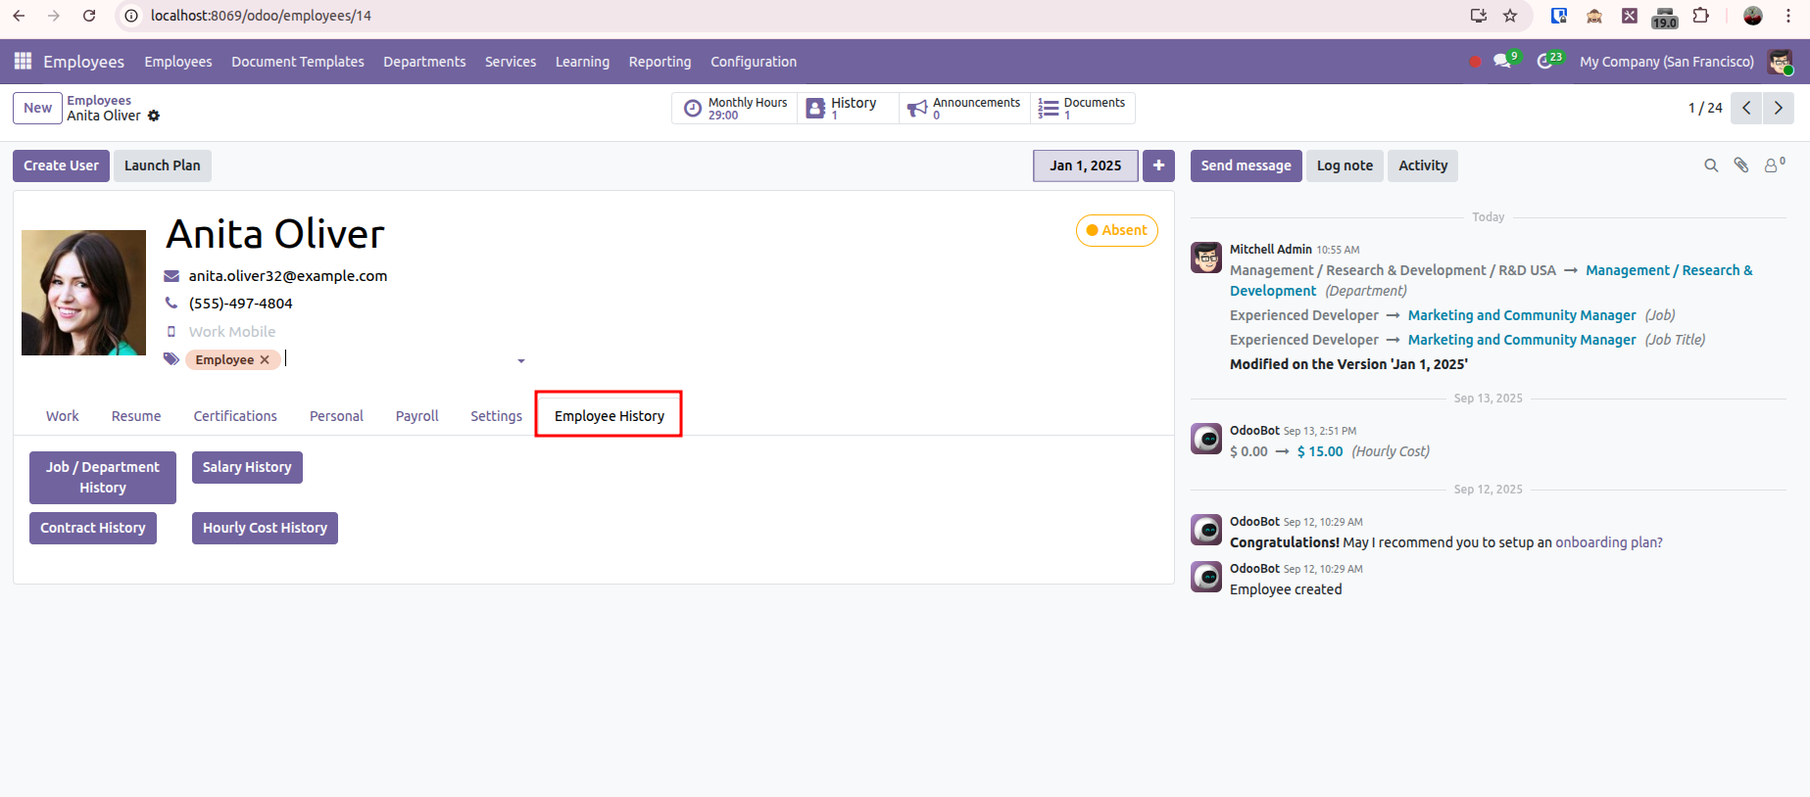
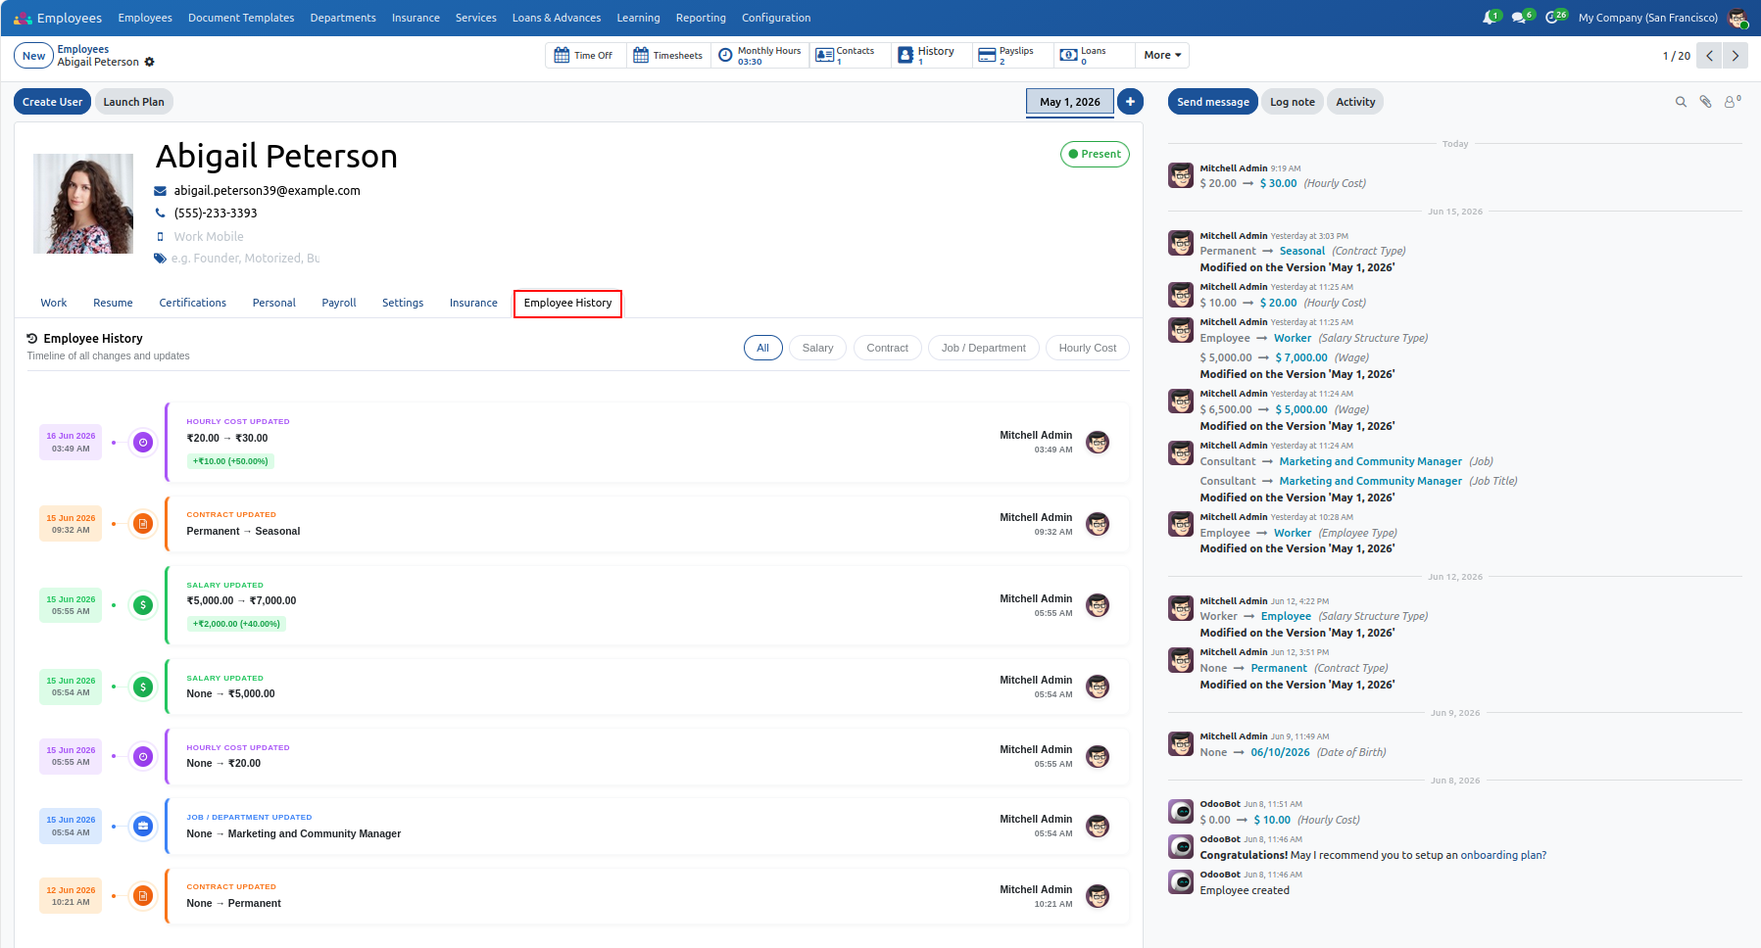
[UPDT] view styling history_employee

diff --git a/static/description/index.html b/static/description/index.html
@@ -205,11 +205,11 @@
                                     <img src="./img/feature-icon.svg" class="img-responsive" height="22px" width="22px">
                                 </div>
                                 <h5 class="m-0" style="color:#000 !important; font-weight:bold">
-                                    Job Position / Department History
+                                    Unified Timeline View
                                 </h5>
                                 <p class="m-0"
                                    style="font-size:0.9rem; color:var(--text-color-light); font-size: 16px; font-weight: 400;">
-                                    Track an employee's job position and department changes over time</p>
+                                    Track all employee changes in a single, unified timeline widget.</p>
                             </div>
                         </div>
                         <div class="col-lg-4">
@@ -221,11 +221,11 @@
                                     <img src="./img/feature-icon.svg" class="img-responsive" height="22px" width="22px">
                                 </div>
                                 <h5 class="m-0" style="color:#000 !important; font-weight:bold">
-                                    Salary History
+                                    Interactive Category Filters
                                 </h5>
                                 <p class="m-0"
                                    style="font-size:0.9rem; color:var(--text-color-light); font-size: 16px; font-weight: 400;">
-                                    Track an employee's salary changes over time. </p>
+                                    Instantly isolate specific histories like Salary or Contracts using interactive category pills. </p>
                             </div>
                         </div>
                         <div class="col-lg-4">
@@ -237,11 +237,11 @@
                                     <img src="./img/feature-icon.svg" class="img-responsive" height="22px" width="22px">
                                 </div>
                                 <h5 class="m-0" style="color:#000 !important; font-weight:bold">
-                                    Contract History
+                                    Visual Change Indicators
                                 </h5>
                                 <p class="m-0"
                                    style="font-size:0.9rem; color:var(--text-color-light); font-size: 16px; font-weight: 400;">
-                                    Track an employee's contract changes over time </p>
+                                    Easily spot data modifications with clear, color-coded before-and-after values. </p>
                             </div>
                         </div>
                         <div class="col-lg-4">
@@ -252,11 +252,11 @@
                                     <img src="./img/feature-icon.svg" class="img-responsive" height="22px" width="22px">
                                 </div>
                                 <h5 class="m-0" style="color:#000 !important; font-weight:bold">
-                                    Hourly Cost History
+                                    Comprehensive Tracking
                                 </h5>
                                 <p class="m-0"
                                    style="font-size:0.9rem; color:var(--text-color-light); font-size: 16px; font-weight: 400;">
-                                    Track an employee's hourly cost changes over time, </p>
+                                    Complete historical records of Job/Department, Salary, Contract, and Hourly Costs. </p>
                             </div>
                         </div>
 
@@ -376,9 +376,7 @@
                                         <div class="col-md-12 mb-4">
                                             <p
                                                     style="font-weight:400; font-size:16px; line-height:150%; text-align:center;  color:var(--text-color-light)">
-                                                A new page named "Employee History" in the Employee form view, which
-                                                contains the buttons related to Job / Department History, Salary
-                                                History, Contract History and Hourly Cost History.
+                                                A modern "Employee History" timeline widget in the Employee form that provides a unified, chronological history of Job / Department, Salary, Contract, and Hourly Cost changes.
                                             </p>
                                         </div>
                                         <div class="col-md-12 text-center">
@@ -397,104 +395,20 @@
                                         <div class="col-md-12">
                                             <h1 style="font-weight:bold; font-size:calc(1.1rem + 1vw); line-height:120%; text-align:center; text-transform:capitalize; font-size: 40px;
                               font-weight: 700;">
-                          <span style="color:#121212; font-size:calc(1.1rem + 1vw)">Job / Department History
+                          <span style="color:#121212; font-size:calc(1.1rem + 1vw)">Interactive Category Filters
                           </span>
                                             </h1>
                                         </div>
                                         <div class="col-md-12 mb-4">
                                             <p
                                                     style="font-weight:400; font-size:16px; line-height:150%; text-align:center;  color:var(--text-color-light)">
-                                                On clicking the "Job / Department History" button, will show the
-                                                corresponding Employee's Job Position and Department changes overtime,
-                                                with updated Date and Designation.
+                                                Quickly filter the timeline to view specific types of updates. Use the interactive category pills to isolate Salary, Contract, Job/Department, or Hourly Cost changes instantly.
                                             </p>
                                         </div>
                                         <div class="col-md-12 text-center">
                                             <div class="d-inline-block p-3 shadow-sm"
                                                  style="background-color:#fff; border-radius:10px">
                                                 <img alt="" class="img-fluid" loading="lazy" src="./screenshot/2.png"
-                                                     style="min-height: 1px;">
-                                            </div>
-                                        </div>
-                                    </div>
-                                </div>
-                            </div>
-                            <div class="position-relative mb-4" style="border-radius:10px; background-color:#f4f4f4">
-                                <div class="p-md-5 p-3 position-relative">
-                                    <div class="row">
-                                        <div class="col-md-12">
-                                            <h1 style="font-weight:bold; font-size:calc(1.1rem + 1vw); line-height:120%; text-align:center; text-transform:capitalize; font-size: 40px;
-                              font-weight: 700;">
-                          <span style="color:#121212; font-size:calc(1.1rem + 1vw)">Salary History
-                          </span>
-                                            </h1>
-                                        </div>
-                                        <div class="col-md-12 mb-4">
-                                            <p
-                                                    style="font-weight:400; font-size:16px; line-height:150%; text-align:center;  color:var(--text-color-light)">
-                                                On clicking the "Salary History" button, will show the corresponding
-                                                Employee's Salary changes with the updated Salary amount and Date.
-                                            </p>
-                                        </div>
-                                        <div class="col-md-12 text-center">
-                                            <div class="d-inline-block p-3 shadow-sm"
-                                                 style="background-color:#fff; border-radius:10px">
-                                                <img alt="" class="img-fluid" loading="lazy" src="./screenshot/3.png"
-                                                     style="min-height: 1px;">
-                                            </div>
-                                        </div>
-                                    </div>
-                                </div>
-                            </div>
-                            <div class="position-relative mb-4" style="border-radius:10px; background-color:#f4f4f4">
-                                <div class="p-md-5 p-3 position-relative">
-                                    <div class="row">
-                                        <div class="col-md-12">
-                                            <h1 style="font-weight:bold; font-size:calc(1.1rem + 1vw); line-height:120%; text-align:center; text-transform:capitalize; font-size: 40px;
-                              font-weight: 700;">
-                          <span style="color:#121212; font-size:calc(1.1rem + 1vw)">Contract History
-                          </span>
-                                            </h1>
-                                        </div>
-                                        <div class="col-md-12 mb-4">
-                                            <p
-                                                    style="font-weight:400; font-size:16px; line-height:150%; text-align:center;  color:var(--text-color-light)">
-                                                On clicking the "Contract History" button, will show the changes in
-                                                corresponding Employee's Contract fields such as Contract Reference,
-                                                Contract Start Date and Contract End Date
-                                            </p>
-                                        </div>
-                                        <div class="col-md-12 text-center">
-                                            <div class="d-inline-block p-3 shadow-sm"
-                                                 style="background-color:#fff; border-radius:10px">
-                                                <img alt="" class="img-fluid" loading="lazy" src="./screenshot/4.png"
-                                                     style="min-height: 1px;">
-                                            </div>
-                                        </div>
-                                    </div>
-                                </div>
-                            </div>
-                            <div class="position-relative mb-4" style="border-radius:10px; background-color:#f4f4f4">
-                                <div class="p-md-5 p-3 position-relative">
-                                    <div class="row">
-                                        <div class="col-md-12">
-                                            <h1 style="font-weight:bold; font-size:calc(1.1rem + 1vw); line-height:120%; text-align:center; text-transform:capitalize; font-size: 40px;
-                              font-weight: 700;">
-                          <span style="color:#121212; font-size:calc(1.1rem + 1vw)">Hourly Cost History
-                          </span>
-                                            </h1>
-                                        </div>
-                                        <div class="col-md-12 mb-4">
-                                            <p
-                                                    style="font-weight:400; font-size:16px; line-height:150%; text-align:center;  color:var(--text-color-light)">
-                                                On clicking the "Hourly Cost History" button, will show the changes in
-                                                corresponding Employee's Hourly Cost .
-                                            </p>
-                                        </div>
-                                        <div class="col-md-12 text-center">
-                                            <div class="d-inline-block p-3 shadow-sm"
-                                                 style="background-color:#fff; border-radius:10px">
-                                                <img alt="" class="img-fluid" loading="lazy" src="./screenshot/5.png"
                                                      style="min-height: 1px;">
                                             </div>
                                         </div>
@@ -514,7 +428,7 @@
                                                 <i class="fa fa-star  " style="color:#fff; font-size:14px"></i>
                                             </div>
                                             <p style="color:#1A202C; font-weight:600; font-size:1.2rem; margin-bottom:2px">
-                                                Track Job Position / Department History of the Employee.</p>
+                                                Unified Timeline View</p>
                                         </div>
                                     </div>
                                 </div>
@@ -527,7 +441,7 @@
                                                 <i class="fa fa-star  " style="color:#fff; font-size:14px"></i>
                                             </div>
                                             <p style="color:#1A202C; font-weight:600; font-size:1.2rem; margin-bottom:2px">
-                                                Track Salary History of the Employee</p>
+                                                Interactive Category Filters</p>
                                         </div>
                                     </div>
                                 </div>
@@ -540,7 +454,7 @@
                                                 <i class="fa fa-star  " style="color:#fff; font-size:14px"></i>
                                             </div>
                                             <p style="color:#1A202C; font-weight:600; font-size:1.2rem; margin-bottom:2px">
-                                                Track Contract History of the Employee</p>
+                                                Visual Change Indicators</p>
                                         </div>
                                     </div>
                                 </div>
@@ -553,7 +467,7 @@
                                                 <i class="fa fa-star  " style="color:#fff; font-size:14px"></i>
                                             </div>
                                             <p style="color:#1A202C; font-weight:600; font-size:1.2rem; margin-bottom:2px">
-                                                Track Hourly Cost History of the Employee</p>
+                                                Comprehensive Tracking</p>
                                         </div>
                                     </div>
                                 </div>
@@ -693,6 +607,37 @@
                         <div aria-labelledby="releases-tab"
                              class="tab-pane fade show" id="releases"
                              role="tabpanel">
+                            <div class="row pt-5 m-0">
+                                <div class="col-md-3">
+                                    <h4 style="font-size:16px; font-weight:600; color:#514F4F; margin:0; line-height:26px;">
+                                        Latest Release 19.0.2.0.0
+                                    </h4>
+                                    <span style="font-size:14px; color:#7A7979; display:block; margin-bottom:20px;">
+                      16th June, 2026
+                    </span>
+                                </div>
+                                <div class="col-md-8">
+                                    <div style="padding:0 0 40px">
+                                        <div style="margin:0 0 10px">
+                                            <div
+                                                    style="display:inline-block; padding:0px 8px; color:#514F4F; background-color:#b5d9ff; border-radius:20px">
+                                                UPDT
+                                            </div>
+                                        </div>
+                                        <div class="d-flex m-0"
+                                             style="color:#7A7979;">
+                                            <ul class="pl-3 mb-0">
+                                                <li>
+                                                    Changed the design for the Employee History
+                                                </li>
+
+                                            </ul>
+                                        </div>
+                                    </div>
+                                    <div style="padding:0 0 0; border-bottom:1px solid #E3E3E3">
+                                    </div>
+                                </div>
+                            </div>
                             <div class="row pt-5 m-0">
                                 <div class="col-md-3">
                                     <h4 style="font-size:16px; font-weight:600; color:#514F4F; margin:0; line-height:26px;">

diff --git a/static/src/css/timeline_view.scss b/static/src/css/timeline_view.scss
@@ -22,8 +22,19 @@
         padding-top: 15px;
         
         .timeline-item {
+            .timeline-vertical-line {
+                top: 0;
+                bottom: -1rem !important; /* Bridge the mb-3 gap */
+            }
+            &:first-child .timeline-vertical-line {
+                top: 50% !important;
+            }
             &:last-child .timeline-vertical-line {
-                display: none; // Hide vertical line for last item
+                bottom: 50% !important;
+                display: block !important;
+            }
+            &:first-child:last-child .timeline-vertical-line {
+                display: none !important;
             }
         }
     }

diff --git a/models/hr_employee.py b/models/hr_employee.py
@@ -65,7 +65,20 @@ class HrEmployee(models.Model):
     def _onchange_hourly_cost(self):
         """Create a record in 'hourly.cost' when the 'hourly_cost' field
         changes."""
+        if not self._origin.id:
+            return
         employee_id = self.env['hr.employee'].browse(self._origin.id)
+        
+        # If no history exists, record the initial value first
+        existing = self.env['hourly.cost'].sudo().search_count([('employee_id', '=', self._origin.id)])
+        if existing == 0 and self._origin.hourly_cost:
+            self.env['hourly.cost'].sudo().create({
+                'employee': self._origin.id,
+                'employee_name': employee_id.name,
+                'updated_date': employee_id.create_date or fields.Datetime.now(),
+                'current_value': self._origin.hourly_cost
+            })
+
         self.env['hourly.cost'].sudo().create({
             'employee': self._origin.id,
             'employee_name': employee_id.name,
@@ -157,8 +170,9 @@ class HrEmployee(models.Model):
                 'author_name': s.create_uid.name if s.create_uid else 'System',
                 'author_id': s.create_uid.id if s.create_uid else False,
                 'icon': 'fa-dollar',
-                'color': '#10b981', # Bright Emerald Green
-                'light_color': '#dcfce7', # Visible light green
+                'color': '#22c55e', # Professional Green
+                'light_color': '#dcfce7', # Very light green
+                'gradient': 'linear-gradient(135deg, #22c55e 0%, #16a34a 100%)',
             })
             prev_salary_val = s.current_value
 
@@ -195,8 +209,9 @@ class HrEmployee(models.Model):
                 'author_name': h.create_uid.name if h.create_uid else 'System',
                 'author_id': h.create_uid.id if h.create_uid else False,
                 'icon': 'fa-clock-o',
-                'color': '#8b5cf6', # Bright Purple
-                'light_color': '#ede9fe', # Visible light purple
+                'color': '#a855f7', # Professional Purple
+                'light_color': '#f3e8ff', # Very light purple
+                'gradient': 'linear-gradient(135deg, #a855f7 0%, #9333ea 100%)',
             })
             prev_hourly_val = h.current_value
 
@@ -218,8 +233,9 @@ class HrEmployee(models.Model):
                 'author_name': c.create_uid.name if c.create_uid else 'System',
                 'author_id': c.create_uid.id if c.create_uid else False,
                 'icon': 'fa-file-text-o',
-                'color': '#f97316', # Bright Orange
-                'light_color': '#ffedd5', # Visible light orange
+                'color': '#f97316', # Professional Orange
+                'light_color': '#ffedd5', # Very light orange
+                'gradient': 'linear-gradient(135deg, #f97316 0%, #ea580c 100%)',
             })
             contract_prevs[field] = c.current_value
 
@@ -241,8 +257,9 @@ class HrEmployee(models.Model):
                 'author_name': d.create_uid.name if d.create_uid else 'System',
                 'author_id': d.create_uid.id if d.create_uid else False,
                 'icon': 'fa-briefcase',
-                'color': '#3b82f6', # Bright Blue
-                'light_color': '#dbeafe', # Visible light blue
+                'color': '#3b82f6', # Professional Blue
+                'light_color': '#dbeafe', # Very light blue
+                'gradient': 'linear-gradient(135deg, #3b82f6 0%, #2563eb 100%)',
             })
             dep_prevs[field] = d.current_value
 

diff --git a/__manifest__.py b/__manifest__.py
@@ -22,7 +22,7 @@
 #############################################################################
 {
     'name': 'Open HRMS Employee History',
-    'version': '19.0.1.0.0',
+    'version': '19.0.2.0.0',
     'category': 'Human Resources',
     'summary': """Various Histories related to an employee. """,
     'description': """This module tracks the Job/Department History, Salary History, 

diff --git a/models/department_history.py b/models/department_history.py
@@ -36,6 +36,9 @@ class DepartmentHistory(models.Model):
 
     @api.depends('employee')
     def _compute_employee_id(self):
+        """
+        Compute the actual hr.employee record from the stored employee ID string.
+        """
         for rec in self:
             if rec.employee and rec.employee.isdigit():
                 rec.employee_id = int(rec.employee)

diff --git a/models/contract_history.py b/models/contract_history.py
@@ -38,6 +38,9 @@ class ContractHistory(models.Model):
 
     @api.depends('employee')
     def _compute_employee_id(self):
+        """
+        Compute the actual hr.employee record from the stored employee ID string.
+        """
         for rec in self:
             if rec.employee and rec.employee.isdigit():
                 rec.employee_id = int(rec.employee)

diff --git a/models/salary_history.py b/models/salary_history.py
@@ -36,6 +36,9 @@ class SalaryHistory(models.Model):
 
     @api.depends('employee')
     def _compute_employee_id(self):
+        """
+        Compute the actual hr.employee record from the stored employee ID string.
+        """
         for rec in self:
             if rec.employee and rec.employee.isdigit():
                 rec.employee_id = int(rec.employee)

diff --git a/models/hourly_cost.py b/models/hourly_cost.py
@@ -36,6 +36,9 @@ class HourlyCost(models.Model):
 
     @api.depends('employee')
     def _compute_employee_id(self):
+        """
+        Compute the actual hr.employee record from the stored employee ID string.
+        """
         for rec in self:
             if rec.employee and rec.employee.isdigit():
                 rec.employee_id = int(rec.employee)

diff --git a/doc/RELEASE_NOTES.md b/doc/RELEASE_NOTES.md
@@ -4,3 +4,8 @@
 #### Version 19.0.1.0.0
 ##### ADD
 - Initial commit for Open HRMS Employee History
+
+#### 16.06.2026
+#### Version 19.0.2.0.0
+##### UPDT
+- Changed the design for the Employee History
